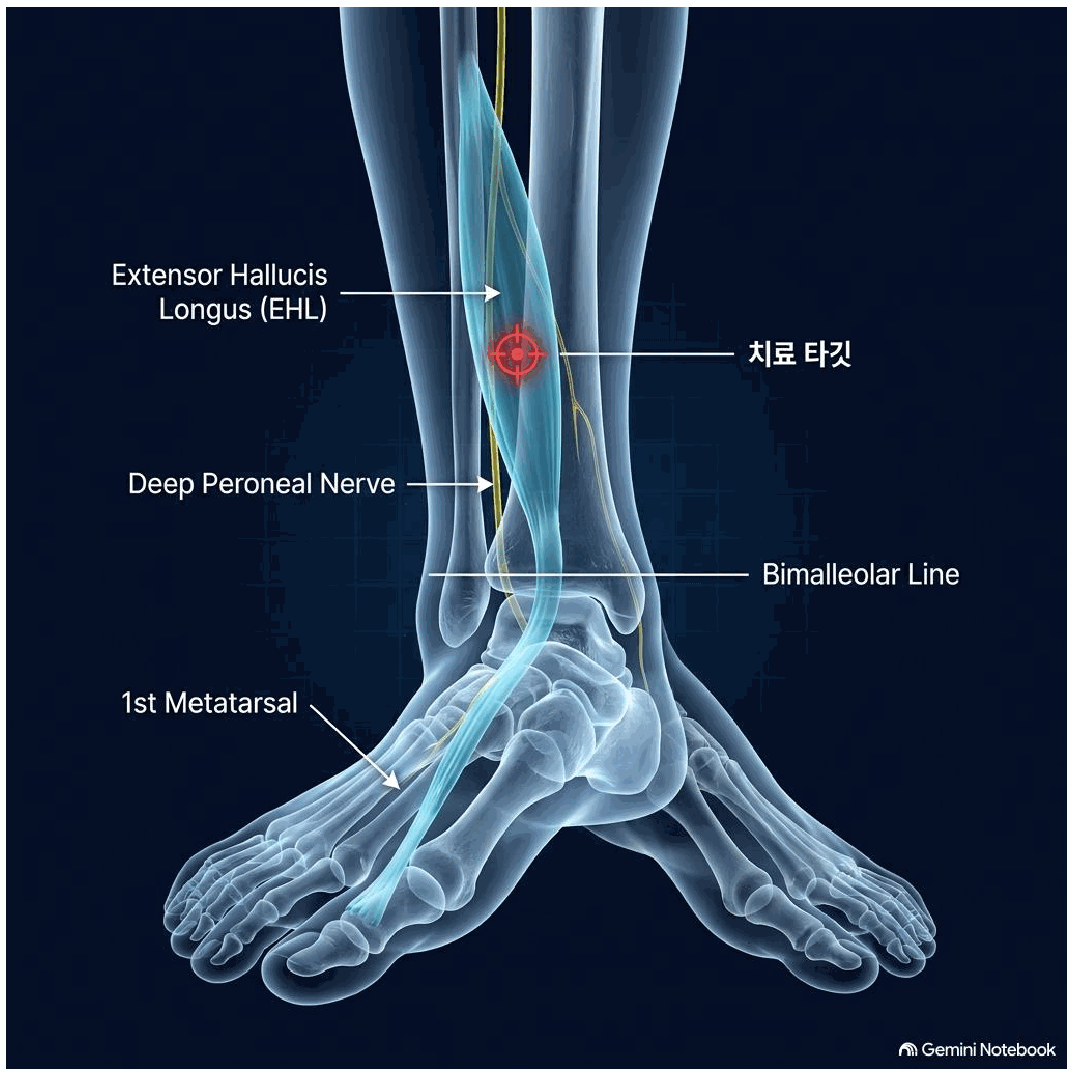
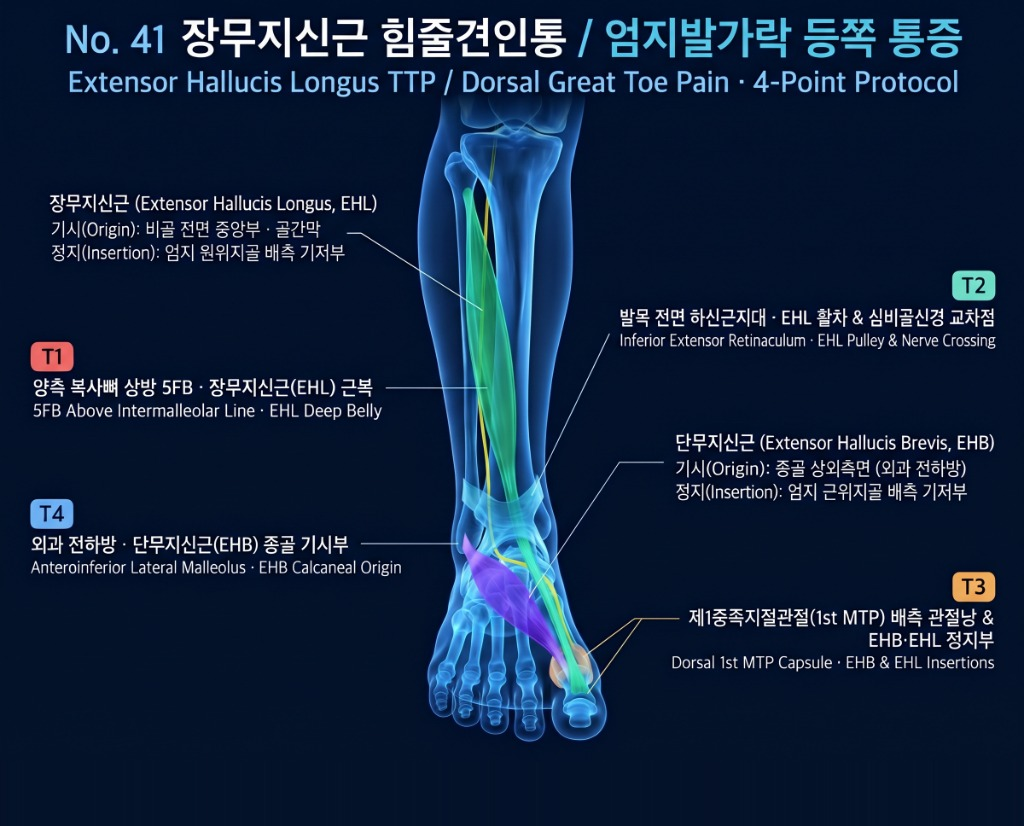
feat(healing-app): upgrade No.41 EHL & dorsal great toe pain plate and align T1-T4 pins

diff --git a/healing-app/js/pain_data.js b/healing-app/js/pain_data.js
@@ -5168,7 +5168,7 @@ window.PAIN_CONDITIONS = [
     ],
     "title": {
       "ko": "장무지신근 힘줄견인통 / 엄지발가락 등쪽 통증",
-      "en": "Extensor Hallucis Longus TTP / Dorsal Great Toe Pain"
+      "en": "Extensor Hallucis Longus TTP / Dorsal Great Toe Pain (4-Point Protocol)"
     },
     "symptoms": {
       "ko": "엄지발가락 1st MTP 관절 등쪽 및 IP 관절 등쪽 통증, 신 발 신을 때 엄지발가락이 구부러지면 극심한 통증.",
@@ -5179,12 +5179,12 @@ window.PAIN_CONDITIONS = [
       "en": "Hypertonicity/shortening of extensor hallucis longus (EHL) induces dorsal periosteal irritation at great toe base."
     },
     "targetTissues": {
-      "ko": "장무지신근(Extensor hallucis longus, EHL).",
-      "en": "Extensor hallucis longus (EHL)."
+      "ko": "장무지신근(EHL · 기시: 비골 전면 중앙부·골간막 / 정지: 엄지 원위지골 배측 기저부), 발목 전면 하신근지대 EHL 활차 & 심비골신경 교차점, 제1중족지절관절(1st MTP) 배측 관절낭, 단무지신근(EHB · 기시: 종골 상외측면 외과 전하방 / 정지: 엄지 근위지골 배측 기저부).",
+      "en": "Extensor Hallucis Longus (EHL), inferior extensor retinaculum EHL pulley & deep peroneal nerve crossing, dorsal 1st MTP capsule, and Extensor Hallucis Brevis (EHB) calcaneal origin."
     },
     "palpation": {
-      "ko": "양쪽 복사뼈 연결선 상방 5 FB 지점 EHL 근복 압통점.",
-      "en": "EHL belly tender point 5 FB proximal to bimalleolar line."
+      "ko": "① 양측 복사뼈 상방 5FB 장무지신근(EHL) 근복 ② 발목 전면 하신근지대 EHL 활차 & 심비골신경 교차점 ③ 제1중족지절관절(1st MTP) 배측 관절낭 & EHB·EHL 정지부 ④ 외과 전하방 단무지신근(EHB) 종골 기시부.",
+      "en": "5FB above intermalleolar line (EHL deep belly), inferior extensor retinaculum EHL pulley, dorsal 1st MTP capsule & EHB/EHL insertions, and anteroinferior lateral malleolus EHB origin."
     },
     "clinicalCase": {
       "ko": "보행 중 발가락이 삐끗한 후 엄지발가락 등쪽 관절에 통증이 지속되던 장무지신근 건 견인통 사례. 복사뼈 선 5횡지 상방 장무지신근(EHL) 근복에 NovaCell Therapy를 적용하여 발등 건막의 긴장을 해소하고 신발 착용 및 보행 시 통증 완치.",
@@ -5195,73 +5195,73 @@ window.PAIN_CONDITIONS = [
       {
         "code": "T1",
         "color": "#ff334b",
-        "x": 48.7,
-        "y": 33.1,
+        "x": 47.6,
+        "y": 47.2,
         "role": {
-          "ko": "제1 핵심 치료점",
-          "en": "Primary Clinical Target"
+          "ko": "심부 근복·근막점",
+          "en": "EHL Deep Belly Target"
         },
         "name": {
-          "ko": "T1: 양측 복사뼈 연결선 상방 5FB 장무지신근(EHL) 근복 핵심 압통점",
-          "en": "T1: Extensor Hallucis Longus (EHL) Belly (5 FB Above Ankle Line)"
+          "ko": "T1: 양측 복사뼈 상방 5FB · 장무지신근(EHL) 근복",
+          "en": "T1: 5FB Above Intermalleolar Line · EHL Deep Belly"
         },
         "desc": {
-          "ko": "[표적 해부] 양쪽 복사뼈 연결선에서 위로 약 5손가락 너비(5 FB) 지점, 경골과 비골 사이 전경골근·장지신근 틈새 깊숙이 위치한 장무지신근(EHL) 근복.\n[촉지 및 시술] 엄지발가락 등쪽과 발등 내측 통증의 근원 발통점입니다.",
-          "en": "Extensor hallucis longus belly 5 finger-breadths superior to bimalleolar line between TA and EDL."
+          "ko": "[표적 해부] 발목 양측 복사뼈 연결선 상방 5FB(약 8~10cm) 위치의 전경골근과 장지신근 사이 심층에 자리한 장무지신근(Extensor Hallucis Longus, EHL) 근복.\n[촉지 및 시술] 엄지발가락을 위로 들어 올릴 때 정강이 하부 1/3 심부에서 수축이 느껴지는 압통점. 엄지발가락 등쪽으로 뻗치는 당김과 신전 시 뻐근함을 원천 해소합니다.",
+          "en": "Deep EHL muscle belly 5FB above the intermalleolar line between TA and EDL; relieves proximal tension pulling on the dorsal great toe."
         }
       },
       {
         "code": "T2",
         "color": "#00f5d4",
-        "x": 56.0,
-        "y": 54.0,
+        "x": 50.8,
+        "y": 63.1,
         "role": {
-          "ko": "신경 주행·분지점",
-          "en": "Nerve Pathway Target"
+          "ko": "주 신경·활차점",
+          "en": "Retinaculum Pulley & Nerve Crossing"
         },
         "name": {
-          "ko": "T2: 발목 전면 하신근지대 장무지신근건 활차 및 심비골신경 교차점",
-          "en": "T2: Inferior Extensor Retinaculum EHL Tendon Pulley & Deep Peroneal Nerve"
+          "ko": "T2: 발목 전면 하신근지대 · EHL 활차 & 심비골신경 교차점",
+          "en": "T2: Inferior Extensor Retinaculum · EHL Pulley & Nerve Crossing"
         },
         "desc": {
-          "ko": "[표적 해부] 발목 앞쪽 해계혈 내측에서 장무지신근건이 하신근지대 Y자 고리를 통과하며 심비골신경과 교차하는 지점.\n[촉지 및 시술] 엄지발가락을 들거나 걸을 때 발목 앞쪽에서 엄지로 당기는 건초 마찰통을 해소합니다.",
-          "en": "EHL tendon sheath pulley under inferior extensor retinaculum at anterior ankle."
+          "ko": "[표적 해부] 발목 전면 하신근지대(Inferior Extensor Retinaculum) 아래 장무지신근건이 꺾여 지나가는 활차(Pulley) 부위 및 심비골신경·족배동맥 교차점.\n[촉지 및 시술] 발목 앞주름 중앙에서 엄지발가락 쪽으로 도드라지는 EHL 힘줄 바로 위 터널 부위. 신발 끈 압박이나 보행 시 발등 앞쪽 찌릿함과 건초 마찰통을 감압합니다.",
+          "en": "EHL tendon pulley beneath the inferior extensor retinaculum where it crosses the deep peroneal nerve; relieves lace-pressure pain and tenosynovitis."
         }
       },
       {
         "code": "T3",
         "color": "#ff9f43",
-        "x": 38.0,
-        "y": 62.0,
+        "x": 56.1,
+        "y": 80.5,
         "role": {
           "ko": "힘줄·골막 부착점",
-          "en": "Tendon & Periosteal Target"
+          "en": "Dorsal 1st MTP & Insertions"
         },
         "name": {
-          "ko": "T3: 제1중족지절관절(1st MTP) 배측 관절낭 및 단무지신근(EHB) 정지부 골막 부착점",
-          "en": "T3: Dorsal 1st MTP Joint Capsule & Extensor Hallucis Brevis Insertion"
+          "ko": "T3: 제1중족지절관절(1st MTP) 배측 관절낭 & EHB·EHL 정지부",
+          "en": "T3: Dorsal 1st MTP Capsule · EHB & EHL Insertions"
         },
         "desc": {
-          "ko": "[표적 해부] 엄지발가락 뿌리 관절(1st MTP) 등쪽 관절낭, 단무지신근 정지건 및 엄지 끝마디 장무지신근 골막 착점.\n[촉지 및 시술] 무지강직증(Hallux rigidus) 및 엄지발가락 등쪽 관절 골막 통증을 직접 제거합니다.",
-          "en": "Dorsal capsule of 1st MTP joint and EHL/EHB periosteal insertions on hallux."
+          "ko": "[표적 해부] 엄지발가락 제1중족지절관절(1st MTP) 등쪽 관절낭 및 단무지신근(EHB · 근위지골 배측 기저부 정지)·장무지신근(EHL · 원위지골 배측 기저부 정지) 정지건.\n[촉지 및 시술] 엄지발가락 등쪽 관절 주름 위 뼈 경계와 말단 힘줄 부착부. 엄지발가락 등쪽 시큰거림, 관절 뻣뻣함 및 힘줄견인통을 직접 완화합니다.",
+          "en": "Dorsal 1st MTP capsule and distal insertions of EHB (proximal phalanx) and EHL (distal phalanx); directly resolves dorsal great toe traction pain."
         }
       },
       {
         "code": "T4",
         "color": "#38bdf8",
-        "x": 62.0,
-        "y": 38.0,
+        "x": 45.6,
+        "y": 66.1,
         "role": {
-          "ko": "힘줄·골막 부착점",
-          "en": "Tendon & Periosteal Target"
+          "ko": "기시부·보조 신근점",
+          "en": "EHB Calcaneal Origin Target"
         },
         "name": {
-          "ko": "T4: 외과 전하방 단무지신근(EHB) 종골 기시부(구허혈) 연계점",
-          "en": "T4: Anteroinferior Lateral Malleolus EHB Origin (ST40/GB40)"
+          "ko": "T4: 외과 전하방 · 단무지신근(EHB) 종골 기시부",
+          "en": "T4: Anteroinferior Lateral Malleolus · EHB Calcaneal Origin"
         },
         "desc": {
-          "ko": "[표적 해부] 종골 상외측면(족근동 앞) 단무지신근·단지신근 공통 기시부.\n[촉지 및 시술] 엄지발가락 등쪽을 비스듬히 당기는 단무지신근의 기시부 장력을 함께 풀어줍니다.",
-          "en": "Common origin of extensor hallucis brevis on superolateral calcaneus."
+          "ko": "[표적 해부] 바깥쪽 복숭아뼈(외과) 전하방 종골 상외측면(족근동 인접)의 단무지신근(Extensor Hallucis Brevis, EHB) 기시부 건골막 및 심비골신경 외측지.\n[촉지 및 시술] 외과 앞아래 오목한 족근동 앞쪽의 말랑한 EHB 근복·기시부. 엄지 신전을 보조하는 단무지신근의 과긴장을 함께 풀어 발등 전체의 균형을 회복합니다.",
+          "en": "Calcaneal origin of extensor hallucis brevis anteroinferior to the lateral malleolus; releases synergistic dorsal forefoot tightness."
         }
       }
     ],
